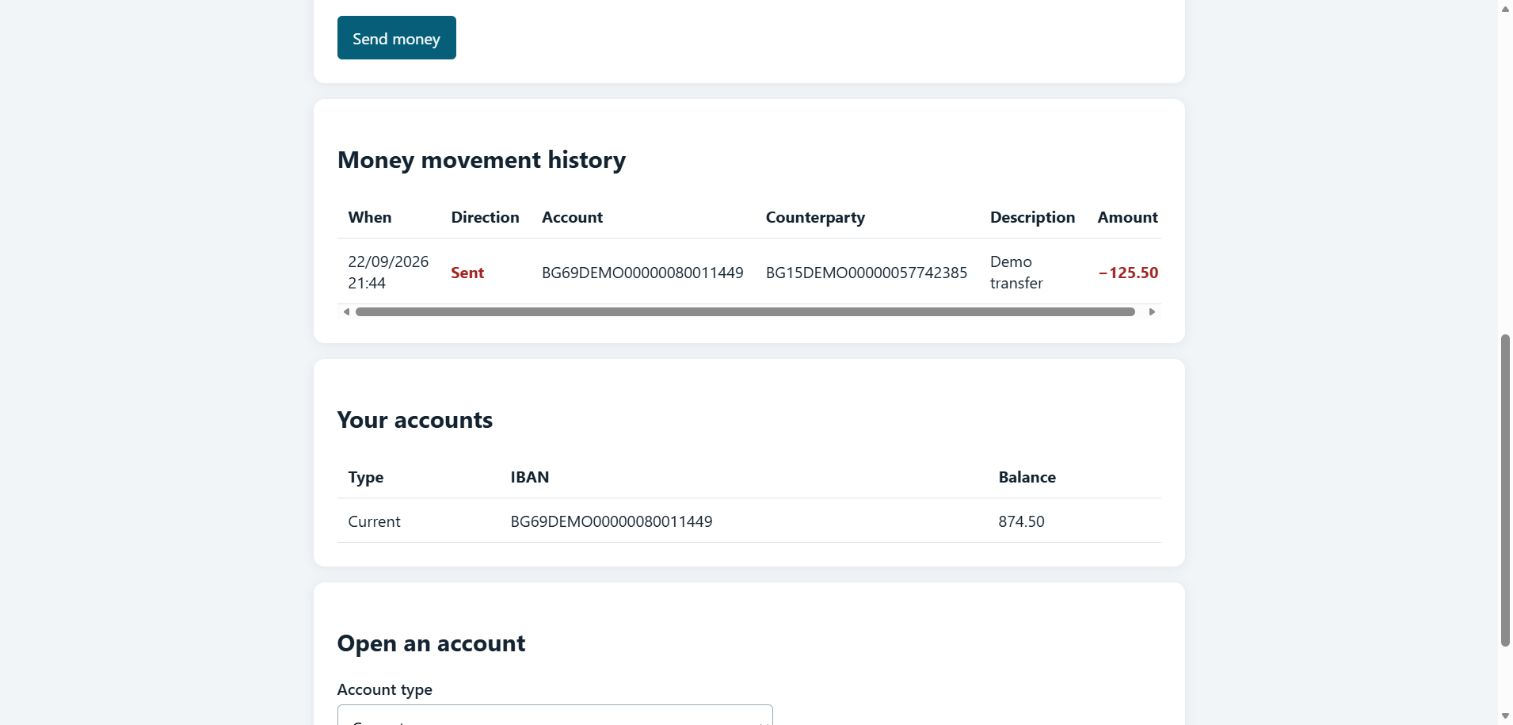
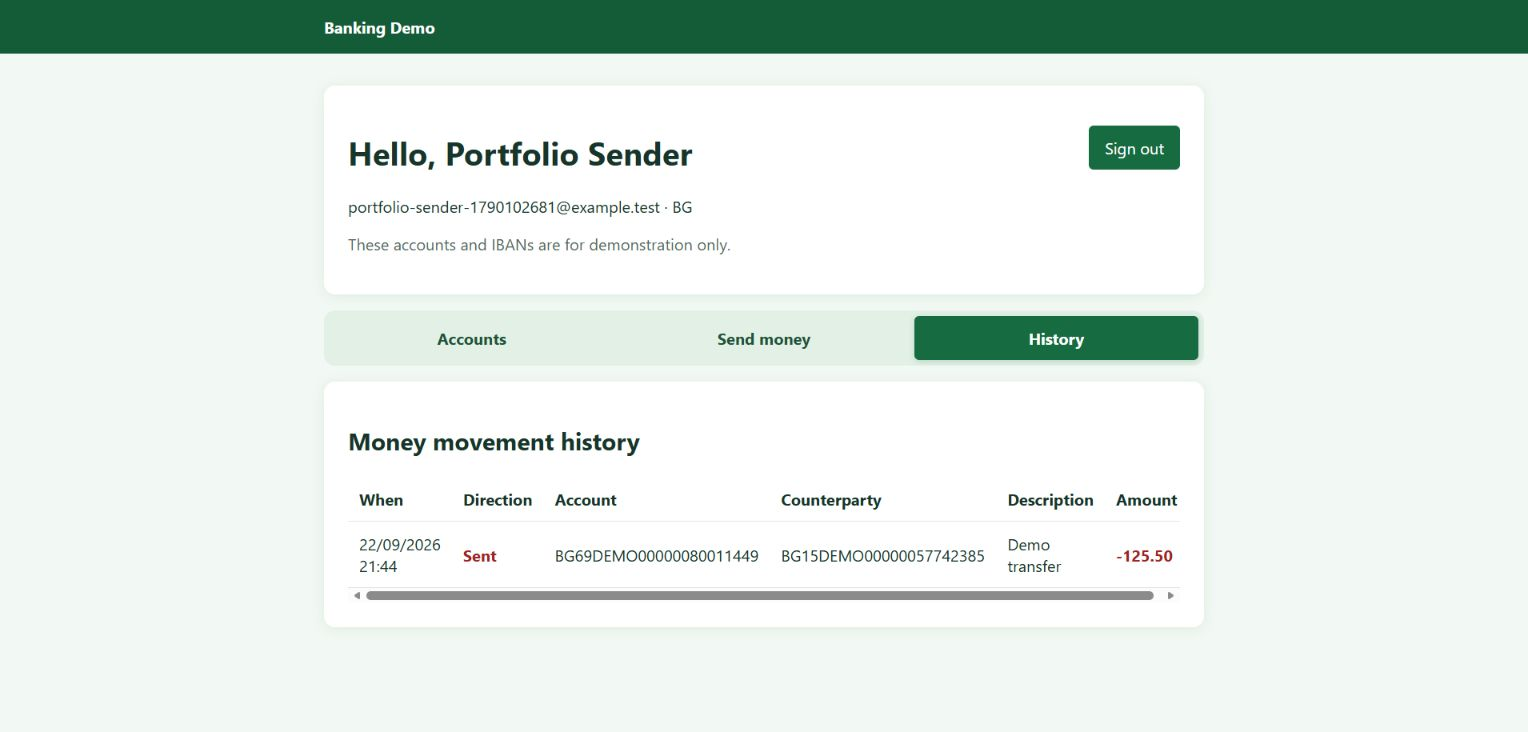
feat: add green theme and tabbed banking dashboard
- Organize accounts, transfers, and history into accessible tabs
- Apply green styling across the server-rendered pages
- Refresh README screenshots and UI documentation

diff --git a/BankingApplication/README.md b/BankingApplication/README.md
@@ -39,6 +39,8 @@ In Development, the OpenAPI document is available at `/openapi/v1.json`. The app
 
 Open `/` (or `/web`) after starting the application. The pages support registration, sign-in, viewing your profile and accounts, sending demo money, reviewing sent and received movements, opening another account, and sign-out. Registration and sign-in are also available directly at `/web/register` and `/web/login`. A new registration receives a 1,000.00 demo opening balance so the transfer flow can be exercised; additional accounts open with a zero balance.
 
+The signed-in dashboard groups Accounts, Send money, and History into tabs. Click a tab or use the left and right arrow keys to switch. After a transfer, the Send money tab displays its result.
+
 The pages use an HTTP-only cookie session and antiforgery-protected forms. The JSON API continues to use Identity bearer tokens; a browser cookie does not authenticate API requests. Both interfaces call the same application services and enforce the same account ownership rules. The pages display demo IBANs only.
 
 Screenshots of the dashboard, sign-in, and registration pages are in the [repository README](../README.md#browser-interface).

diff --git a/README.md b/README.md
@@ -8,7 +8,7 @@ This is a learning project. Its generated IBANs are demos and cannot be used for
 
 ## Browser interface
 
-The project also includes server-rendered pages for registration, sign-in, account management, transfers, and sent/received movement history.
+The green, server-rendered interface includes registration and sign-in pages plus Accounts, Send money, and History tabs for signed-in users.
 
 ### Send money
 
